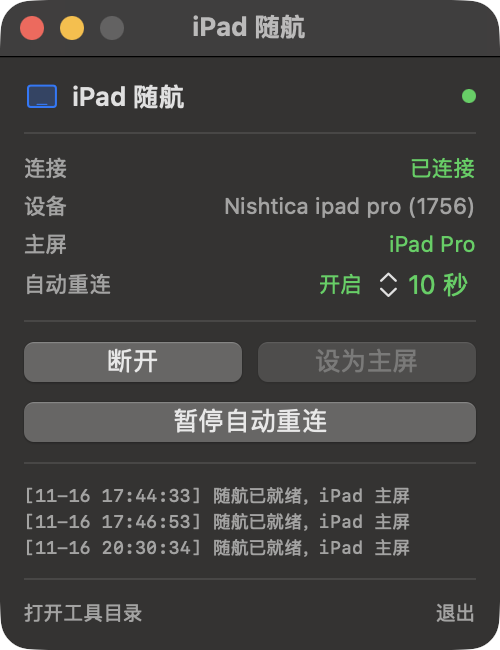
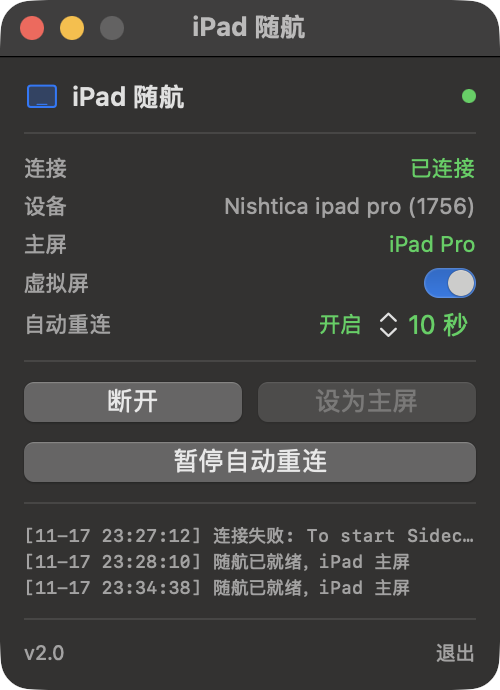
README：换用 v2.0 面板截图
- docs/panel.png 重截，含新增的「虚拟屏」开关（开启态）和左下角 v2.0
- 旧图还带已移除的「打开工具目录」按钮
- alt 文本同步更新

diff --git a/README.md b/README.md
@@ -7,7 +7,7 @@
 适合固定工位：iPad 架在支架上当主屏，Mac mini 藏在桌下，每天开机自动连上，人走开自动不连。
 
 <p align="center">
-  <img src="docs/panel.png" alt="iPad 随航控制面板：已连接 iPad Pro、已设为主屏、自动重连 10 秒、三条就绪日志" width="280">
+  <img src="docs/panel.png" alt="iPad 随航控制面板：已连接 iPad Pro、已设为主屏、虚拟屏开启、自动重连 10 秒、三条就绪日志、左下角版本号 v2.0" width="280">
 </p>
 
 <p align="center">
